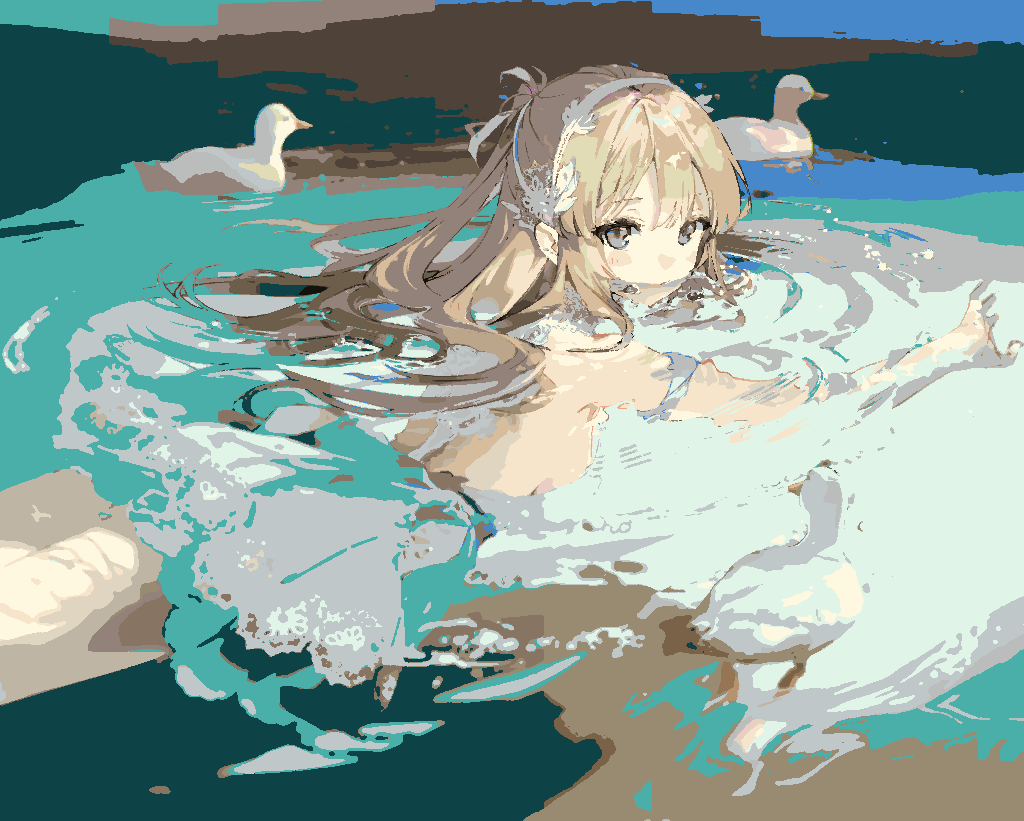
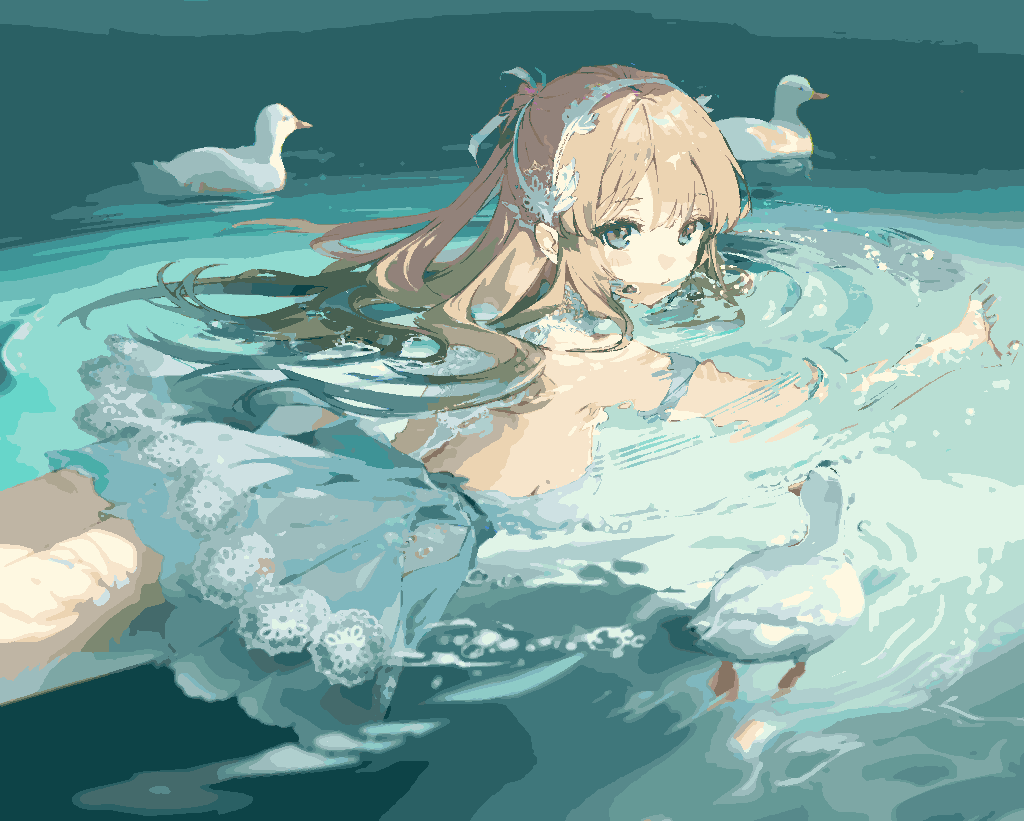
readme更新

diff --git a/README.md b/README.md
@@ -4,12 +4,12 @@
 
 ## 图片示例
 
-以下使用三张示例图片(仅作展示作用，侵权删除)，分别调用 `simplifyImage(blob, 'comparison', { colors: 'auto' })`，其余采用默认参数。左侧为原图，右侧为返回的简化 `png`，两侧统一按 480px 宽度等比展示；`plainPng` 是同一简化画面的浏览器 RGBA PNG 编码。
+以下使用三张示例图片(仅作展示作用，侵权删除)，调用 `simplifyImage()` 的 `'comparison'` 格式。左侧为原图，右侧为返回的简化 `png`，两侧统一按 480px 宽度等比展示；`plainPng` 是同一简化画面的浏览器 RGBA PNG 编码。
 
 | 输入图片 | 输出尺寸 | 色数 | png | plainPng |
 | --- | --- | --- | --- | --- |
 | Still_110_001.png | 1024 × 512 | 30 | 86.1 KiB | 186.2 KiB |
-| illust_133646178_20250812_190458.jpg | 1024 × 821 | 30 | 69.0 KiB | 165.9 KiB |
+| illust_133646178_20250812_190458.jpg | 1024 × 821 | 32 | 84.9 KiB | 205.3 KiB |
 | THE_FINALS_Concept_006_TakeCover_2880x1620.jpg | 1024 × 576 | 29 | 100.7 KiB | 220.4 KiB |
 
 **魔法少女的魔女裁判游戏CG**
@@ -18,11 +18,15 @@
 | --- | --- |
 | <img src="docs/images/still-110-001-original.png" alt="Still_110_001 原图" width="480"> | <img src="docs/images/still-110-001.png" alt="Still_110_001 简化 PNG（auto）" width="480"> |
 
-**PID133646178**
+**PID133646178（32 色）**
+
+```ts
+await simplifyImage(blob, 'comparison', { colors: 32 })
+```
 
 | 原图 | 简化 PNG |
 | --- | --- |
-| <img src="docs/images/illust-133646178-original.jpg" alt="illust_133646178 原图" width="480"> | <img src="docs/images/illust-133646178.png" alt="illust_133646178 简化 PNG（auto）" width="480"> |
+| <img src="docs/images/illust-133646178-original.jpg" alt="illust_133646178 原图" width="480"> | <img src="docs/images/illust-133646178.png" alt="illust_133646178 简化 PNG（32 色）" width="480"> |
 
 **THE FINALS艺术图**
 
